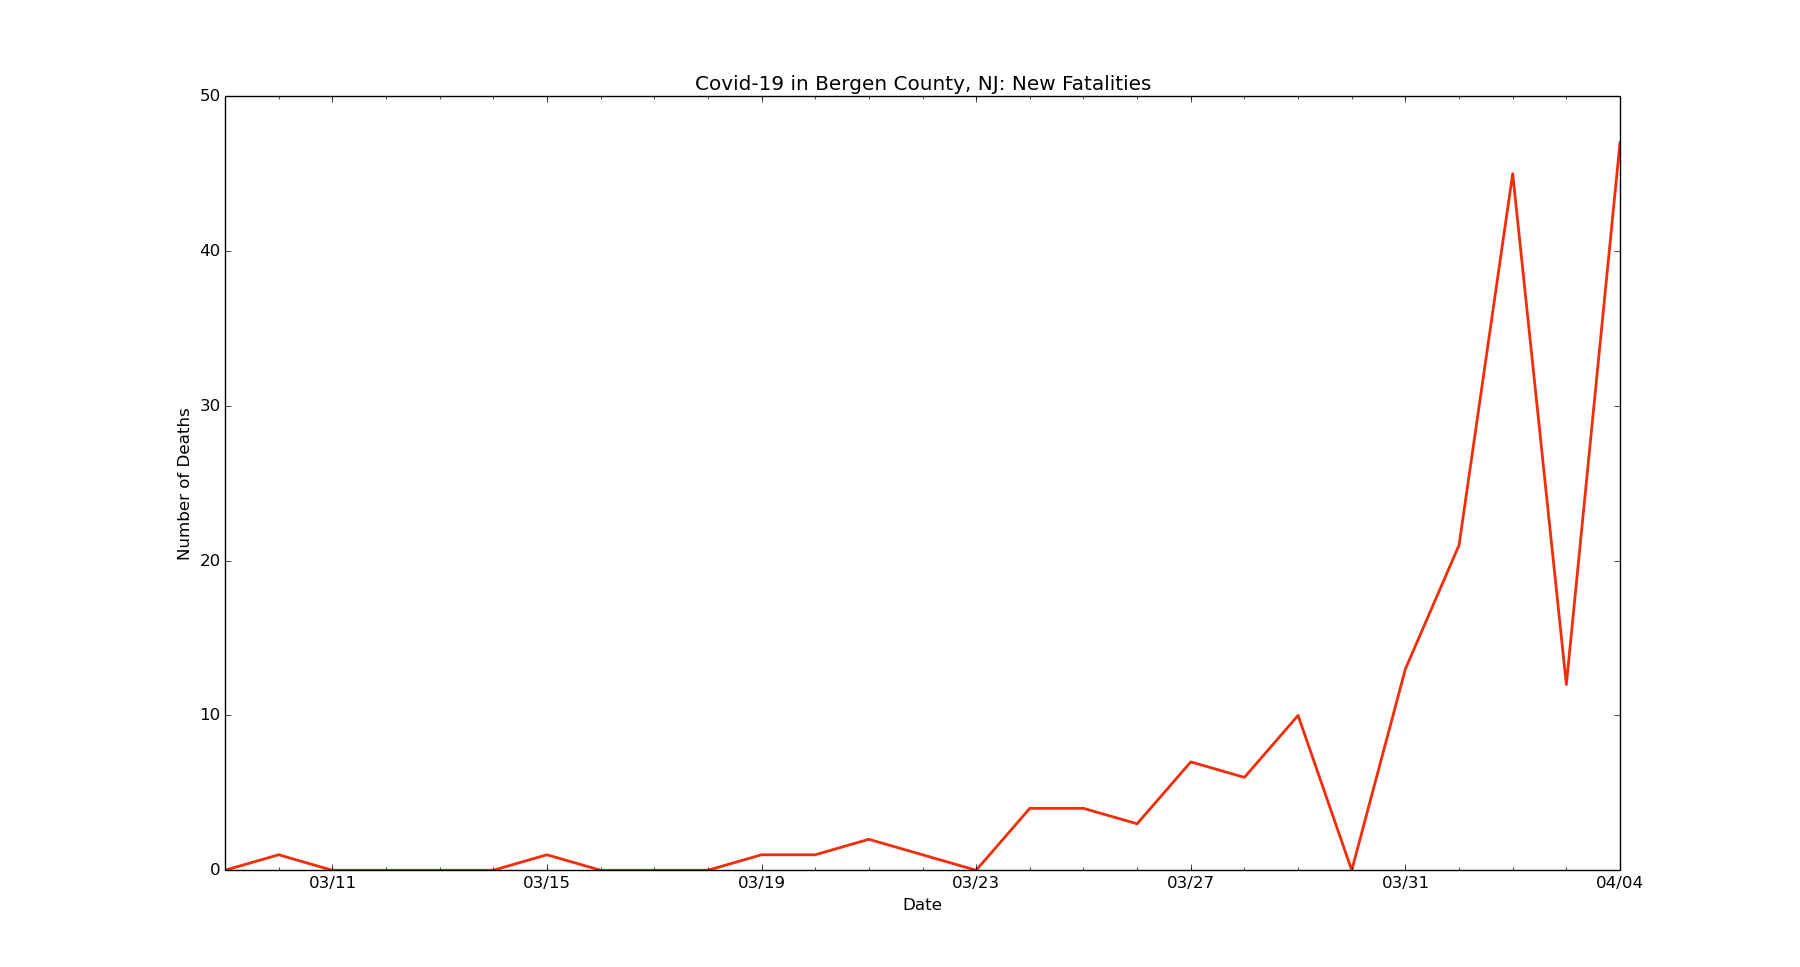
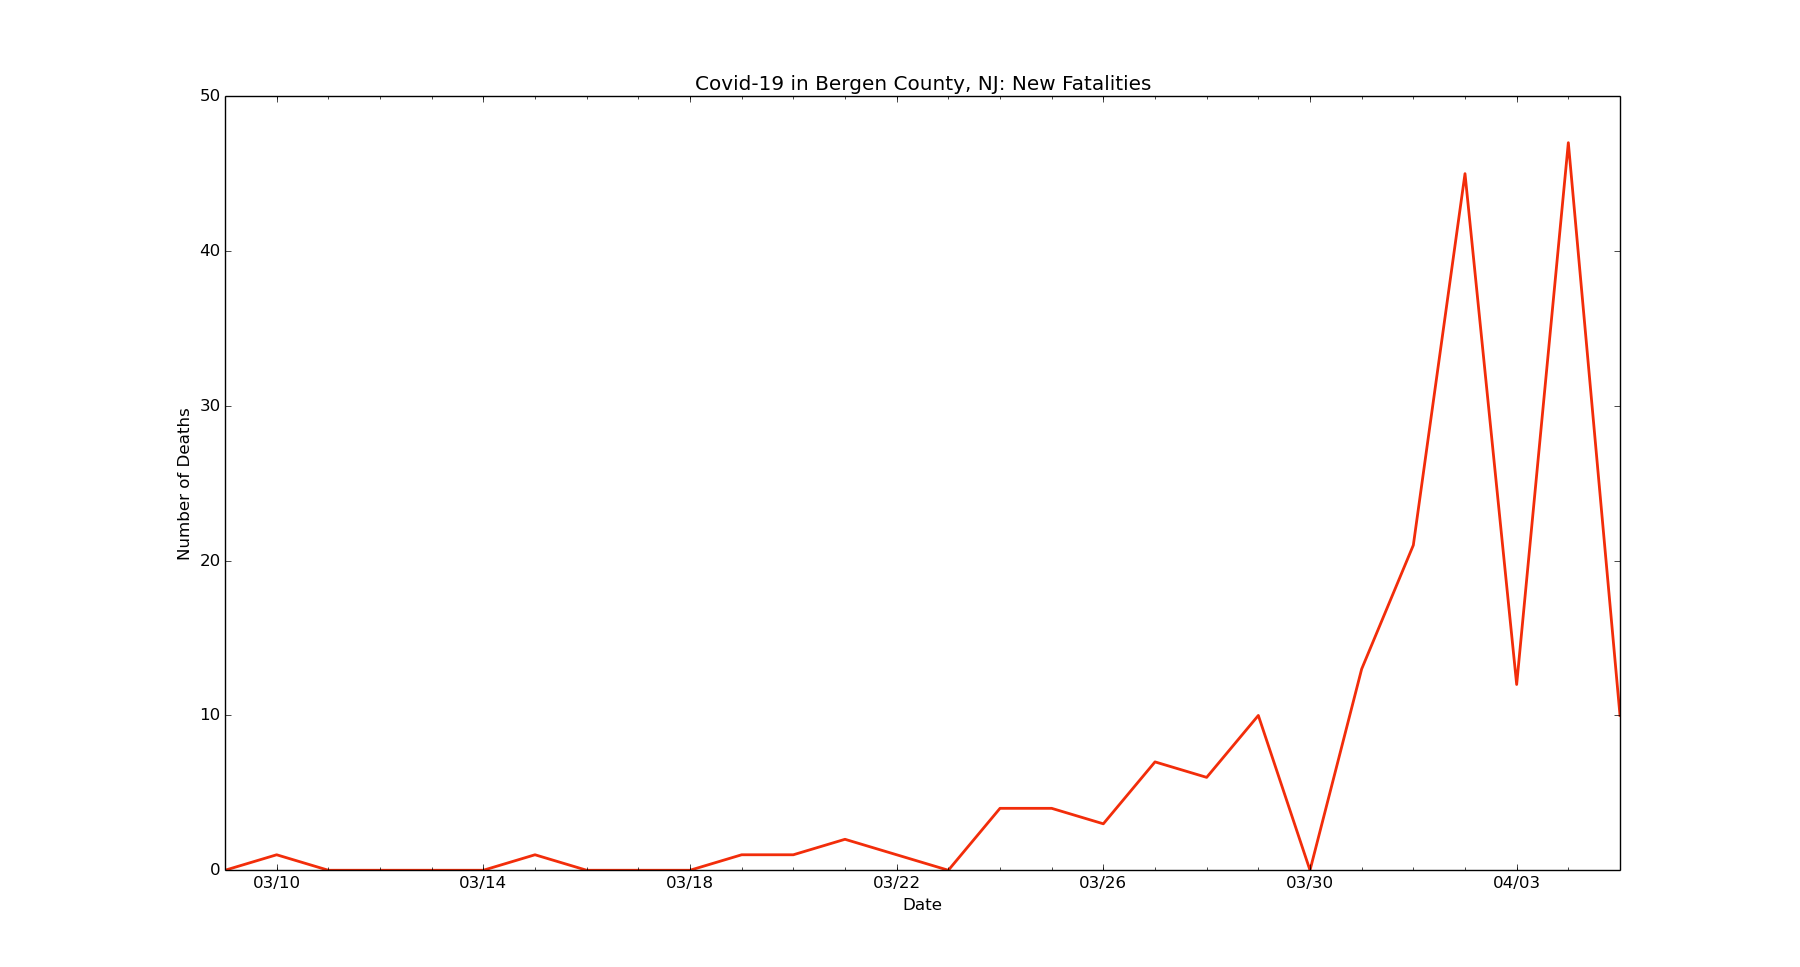
chore: Update data for Bergen County

diff --git a/bergen-county/bergen-new-cases.py b/bergen-county/bergen-new-cases.py
@@ -6,7 +6,7 @@ import matplotlib.dates as mdates
 import matplotlib.ticker as ticker
 from matplotlib.dates import MO, TU, WE, TH, FR, SA, SU
 
-dates = ['3/3/2020', '3/4/2020', '3/5/2020', '3/6/2020', '3/7/2020', '3/8/2020', '3/9/2020', '3/10/2020', '3/11/2020', '3/12/2020', '3/13/2020', '3/14/2020', '3/15/2020', '3/16/2020', '3/17/2020', '3/18/2020', '3/19/2020', '3/20/2020', '3/21/2020', '3/22/2020', '3/23/2020', '3/24/2020', '3/25/2020', '3/26/2020', '3/27/2020', '3/28/2020', '3/29/2020', '3/30/2020', '3/31/2020', '4/1/2020', '4/2/2020', '4/3/2020', '4/4/2020']
+dates = ['3/3/2020', '3/4/2020', '3/5/2020', '3/6/2020', '3/7/2020', '3/8/2020', '3/9/2020', '3/10/2020', '3/11/2020', '3/12/2020', '3/13/2020', '3/14/2020', '3/15/2020', '3/16/2020', '3/17/2020', '3/18/2020', '3/19/2020', '3/20/2020', '3/21/2020', '3/22/2020', '3/23/2020', '3/24/2020', '3/25/2020', '3/26/2020', '3/27/2020', '3/28/2020', '3/29/2020', '3/30/2020', '3/31/2020', '4/1/2020', '4/2/2020', '4/3/2020', '4/4/2020', '4/5/2020']
 
 # format dates
 x_values = [dt.datetime.strptime(d, "%m/%d/%Y").date() for d in dates]
@@ -29,7 +29,7 @@ plt.axvline(dt.datetime(2020, 3, 18), linestyle='--', color='orange', linewidth=
 plt.axvline(dt.datetime(2020, 3, 21), color='black', linewidth=2, label='stay at home')
 
 # new cases by day
-new_cases = [0, 1, 1, 1, 0, 1, 1, 2, 4, 2, 2, 10, 7, 10, 44, 27, 81, 55, 114, 94, 152, 76, 172, 349, 299, 327, 337, 313, 427, 585, 605, 767, 894]
+new_cases = [0, 1, 1, 1, 0, 1, 1, 2, 4, 2, 2, 10, 7, 10, 44, 27, 81, 55, 114, 94, 152, 76, 172, 349, 299, 327, 337, 313, 427, 585, 605, 767, 894, 427]
 
 # text labels
 plt.title('Covid-19 in Bergen County, NJ: New Confirmed Diagnoses')

diff --git a/bergen-county/bergen-deaths-new.py b/bergen-county/bergen-deaths-new.py
@@ -6,7 +6,7 @@ import matplotlib.dates as mdates
 import matplotlib.ticker as ticker
 from matplotlib.dates import MO, TU, WE, TH, FR, SA, SU
 
-dates = ['3/9/2020', '3/10/2020', '3/11/2020', '3/12/2020', '3/13/2020', '3/14/2020', '3/15/2020', '3/16/2020', '3/17/2020', '3/18/2020', '3/19/2020', '3/20/2020', '3/21/2020', '3/22/2020', '3/23/2020', '3/24/2020', '3/25/2020', '3/26/2020', '3/27/2020', '3/28/2020', '3/29/2020', '3/30/2020', '3/31/2020', '4/1/2020', '4/2/2020', '4/3/2020', '4/4/2020']
+dates = ['3/9/2020', '3/10/2020', '3/11/2020', '3/12/2020', '3/13/2020', '3/14/2020', '3/15/2020', '3/16/2020', '3/17/2020', '3/18/2020', '3/19/2020', '3/20/2020', '3/21/2020', '3/22/2020', '3/23/2020', '3/24/2020', '3/25/2020', '3/26/2020', '3/27/2020', '3/28/2020', '3/29/2020', '3/30/2020', '3/31/2020', '4/1/2020', '4/2/2020', '4/3/2020', '4/4/2020', '4/5/2020']
 
 # format dates
 x_values = [datetime.datetime.strptime(d, "%m/%d/%Y").date() for d in dates]
@@ -24,7 +24,7 @@ ax.xaxis.set_minor_locator(mdates.WeekdayLocator(byweekday=(MO, TU, WE, TH, FR, 
 ax.get_yaxis().set_major_formatter(ticker.FuncFormatter(lambda x, pos: format(int(x), ',')))
 
 # new deaths by day
-new_deaths = [0, 1, 0, 0, 0, 0, 1, 0, 0, 0, 1, 1, 2, 1, 0, 4, 4, 3, 7, 6, 10, 0, 13, 21, 45, 12, 47]
+new_deaths = [0, 1, 0, 0, 0, 0, 1, 0, 0, 0, 1, 1, 2, 1, 0, 4, 4, 3, 7, 6, 10, 0, 13, 21, 45, 12, 47, 10]
 
 # text labels
 plt.title('Covid-19 in Bergen County, NJ: New Fatalities')
